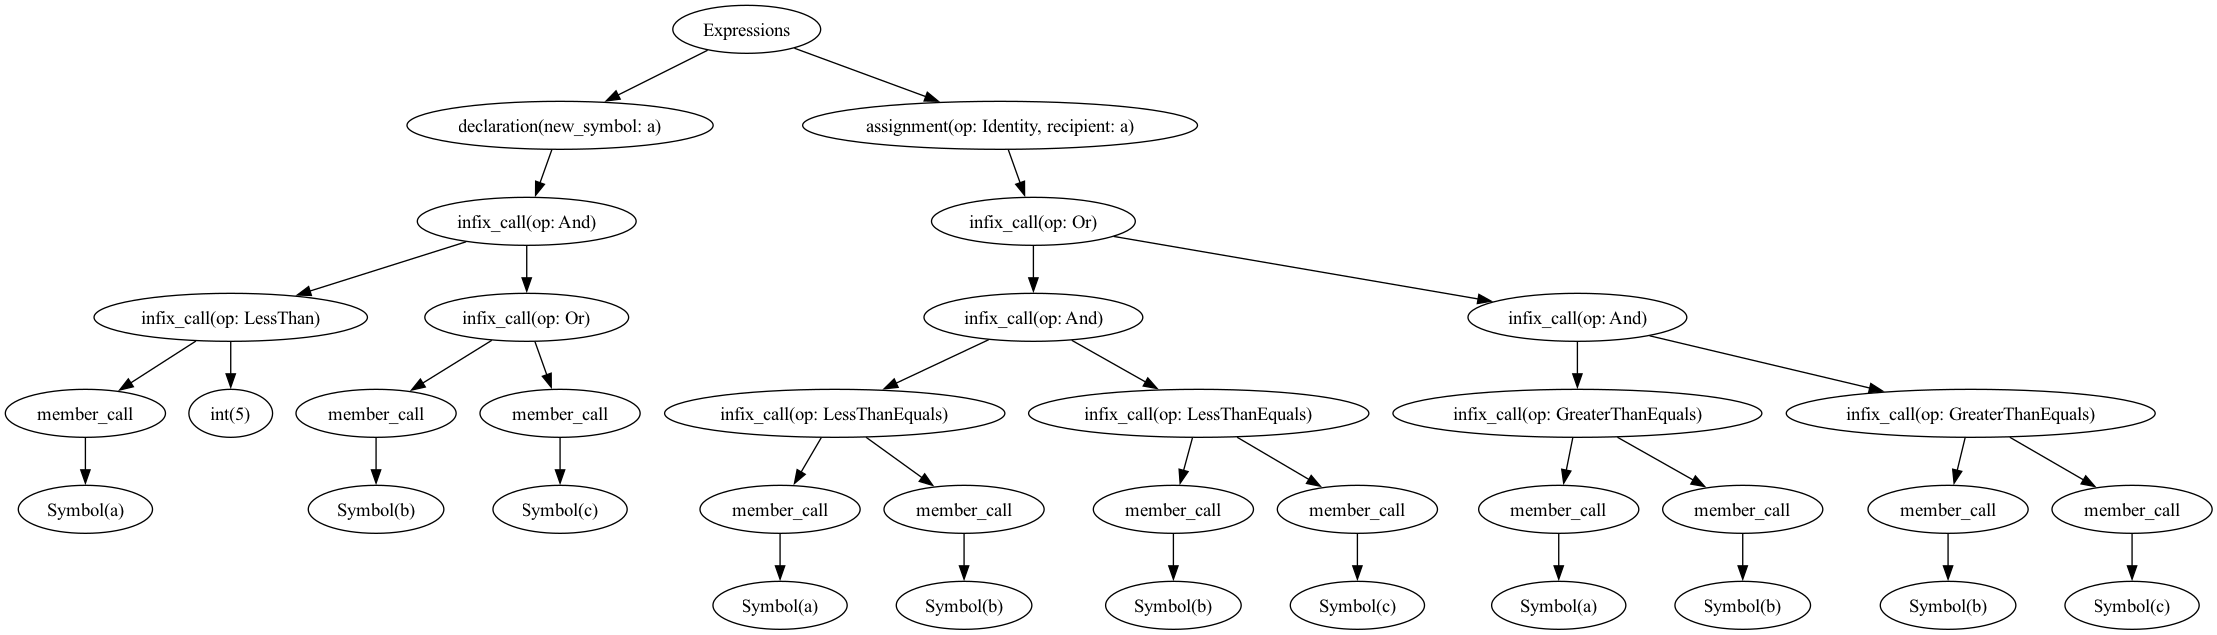
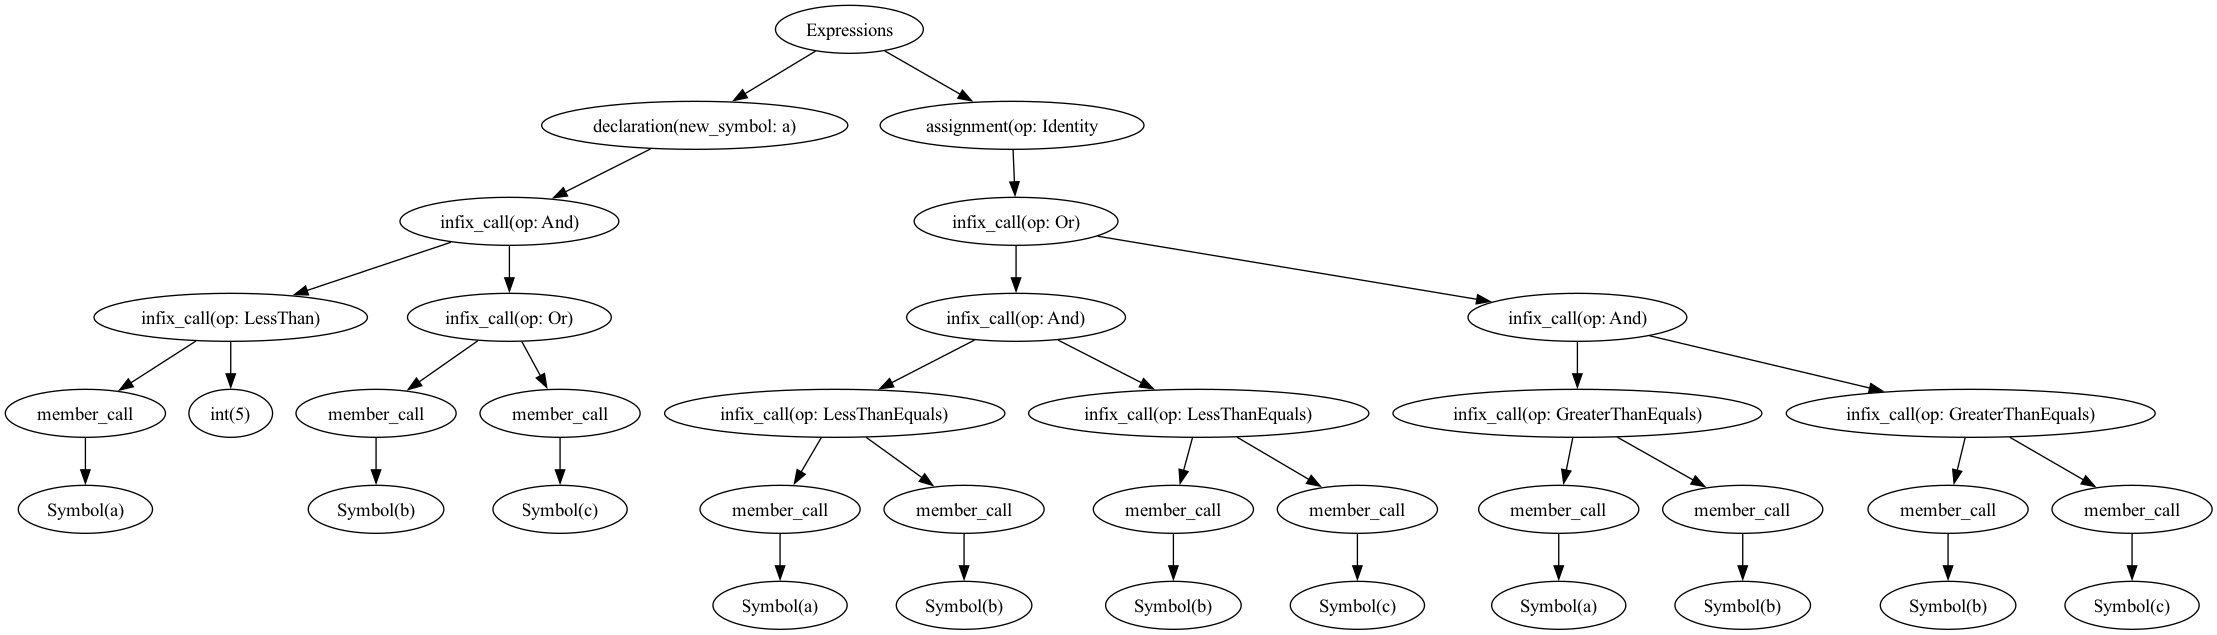
added functional ecs stop test

diff --git a/compiler_proj/crates/parser/src/stages/interpreter.rs b/compiler_proj/crates/parser/src/stages/interpreter.rs
@@ -402,7 +402,14 @@ impl Interpreter {
         world: &World,
     ) -> Result<IsReturn, ErrorWithRange> {
         // NOTE: Cannot be return, hence safe to unwrap
-        let cond1 = self.eval_node(cond, world)?.unwrap();
+        let cond1 = self
+            .eval_node(cond, world)?
+            .unwrap()
+            .deref_value()
+            .map_err(|err| ErrorWithRange {
+                err,
+                range: cond.range.clone(),
+            })?;
 
         let InterpreterValue::Bool(cond1) = cond1 else {
             return Err(ErrorWithRange {
@@ -422,7 +429,15 @@ impl Interpreter {
             let mut executed_case = false;
 
             for elif in else_ifs {
-                let cond = self.eval_node(elif.0.as_ref(), world)?.unwrap();
+                let cond = self
+                    .eval_node(elif.0.as_ref(), world)?
+                    .unwrap()
+                    .deref_value()
+                    .map_err(|err| ErrorWithRange {
+                        err,
+                        range: cond.range.clone(),
+                    })?;
+
                 let InterpreterValue::Bool(cond) = cond else {
                     return Err(ErrorWithRange {
                         err: Error::OperationUnsupported {
@@ -460,12 +475,26 @@ impl Interpreter {
         world: &World,
     ) -> Result<IsReturn, ErrorWithRange> {
         loop {
-            let cond1 = self.eval_node(cond, world)?.unwrap();
+            let cond1 = self
+                .eval_node(cond, world)?
+                .unwrap()
+                .deref_value()
+                .map_err(|err| ErrorWithRange {
+                    err,
+                    range: cond.range.clone(),
+                })?;
 
-            if !cond1.as_bool().map_err(|e| ErrorWithRange {
-                err: e,
-                range: cond.range.clone(),
-            })? {
+            let InterpreterValue::Bool(cond) = cond1 else {
+                return Err(ErrorWithRange {
+                    err: Error::OperationUnsupported {
+                        operation: "elseif condition".to_owned(),
+                        type_of: "must be bool".to_owned(),
+                    },
+                    range: cond.range.clone(),
+                });
+            };
+
+            if !cond {
                 break;
             }
 
@@ -509,12 +538,26 @@ impl Interpreter {
 
             loop {
                 if let Some(cond) = cond.as_ref() {
-                    let cond1 = self.eval_node(cond.as_ref(), world)?.unwrap();
+                    let cond1 = self
+                        .eval_node(cond, world)?
+                        .unwrap()
+                        .deref_value()
+                        .map_err(|err| ErrorWithRange {
+                            err,
+                            range: cond.range.clone(),
+                        })?;
 
-                    if !cond1.as_bool().map_err(|e| ErrorWithRange {
-                        err: e,
-                        range: cond.range.clone(),
-                    })? {
+                    let InterpreterValue::Bool(cond) = cond1 else {
+                        return Err(ErrorWithRange {
+                            err: Error::OperationUnsupported {
+                                operation: "elseif condition".to_owned(),
+                                type_of: "must be bool".to_owned(),
+                            },
+                            range: cond.range.clone(),
+                        });
+                    };
+
+                    if !cond {
                         break;
                     }
                 }
@@ -1075,7 +1118,7 @@ impl Interpreter {
                 match &fn_type.execution_body {
                     FunctionExecutionStrategy::Interpreted(body) => self.eval_nodes(body, world)?,
                     FunctionExecutionStrategy::Buildin(callback) => {
-                        callback(self.get_current_scope()).map_err(|e| ErrorWithRange {
+                        callback(self.get_current_scope(), world).map_err(|e| ErrorWithRange {
                             err: e,
                             range: 1..2,
                         })?
@@ -1156,7 +1199,7 @@ impl Interpreter {
                 match &fn_type.execution_body {
                     FunctionExecutionStrategy::Interpreted(body) => self.eval_nodes(body, world)?,
                     FunctionExecutionStrategy::Buildin(callback) => {
-                        callback(self.get_current_scope()).map_err(|e| ErrorWithRange {
+                        callback(self.get_current_scope(), world).map_err(|e| ErrorWithRange {
                             err: e,
                             range: 1..2,
                         })?

diff --git a/compiler_proj/crates/ecs/src/world.rs b/compiler_proj/crates/ecs/src/world.rs
@@ -8,6 +8,7 @@ pub struct World {
     pub(crate) entites: Rc<RefCell<StandardArena<Entity>>>,
     pub(crate) components: Rc<RefCell<HashSet<String>>>,
     pub(crate) systems: Rc<RefCell<Vec<*const dyn System>>>,
+    pub(crate) is_running: Rc<RefCell<bool>>,
 }
 
 impl World {
@@ -58,13 +59,19 @@ impl World {
     }
 
     pub fn add_system<Marker: 'static, I: IntoSystem<Marker>>(&self, into_system: I) {
-        self.systems.borrow_mut().push(Box::into_raw(into_system.into_system()));
+        self.systems
+            .borrow_mut()
+            .push(Box::into_raw(into_system.into_system()));
     }
 
-    pub fn run(&mut self) {
+    pub fn run(&self) {
         unsafe {
             let systems = self.systems.clone();
+            *self.is_running.borrow_mut() = true;
             loop {
+                if !*self.is_running.borrow() {
+                    break;
+                }
                 // SAFETY: This is safe, as long as no further system manipulation can take place
                 for system in systems.borrow().iter() {
                     let sys = *system as *mut dyn System;
@@ -72,6 +79,10 @@ impl World {
                 }
             }
         }
+    }
+
+    pub fn stop(&self) {
+        *self.is_running.borrow_mut() = false;
     }
 }
 
@@ -81,6 +92,7 @@ impl Default for World {
             entites: Rc::new(RefCell::new(StandardArena::new())),
             components: Rc::new(RefCell::new(HashSet::new())),
             systems: Rc::new(RefCell::new(Vec::new())),
+            is_running: Rc::new(RefCell::new(false)),
         }
     }
 }

diff --git a/compiler_proj/crates/parser/src/stages/buildin.rs b/compiler_proj/crates/parser/src/stages/buildin.rs
@@ -1,21 +1,28 @@
 use std::{cell::RefCell, rc::Rc};
 
+use ecs::World;
+
 use crate::{
     BuildinCallback, Error, FunctionExecutionStrategy, FunctionType, InterpreterValue, IsReturn,
     Scope, ScopeLike, Symbol, TypeSymbol, TypeSymbolType,
 };
 
-pub fn println(scope: Rc<RefCell<Scope>>) -> Result<IsReturn, Error> {
+pub fn println(scope: Rc<RefCell<Scope>>, _world: &World) -> Result<IsReturn, Error> {
     let scope = scope.borrow();
     let val = scope.resolve_value(&"val".to_string())?;
     println!("{val}");
     Ok(IsReturn::Return(InterpreterValue::Empty))
 }
 
-pub fn assert(scope: Rc<RefCell<Scope>>) -> Result<IsReturn, Error> {
+pub fn assert(scope: Rc<RefCell<Scope>>, _world: &World) -> Result<IsReturn, Error> {
     let scope = scope.borrow();
     let attr = scope.resolve_value(&"attr".to_string())?;
     assert!(attr.as_bool()?);
+    Ok(IsReturn::Return(InterpreterValue::Empty))
+}
+
+pub fn stop(_scope: Rc<RefCell<Scope>>, world: &World) -> Result<IsReturn, Error> {
+    world.stop();
     Ok(IsReturn::Return(InterpreterValue::Empty))
 }
 
@@ -59,6 +66,14 @@ pub fn register_buildin(scope: &mut Scope) -> Result<(), Error> {
         return_type: None,
     };
     assert_descriptor.add_to_scope(scope)?;
+
+    let stop_descriptor = BuildinFunctionDescription {
+        name: "stop".to_string(),
+        callback: stop,
+        params: vec![],
+        return_type: None,
+    };
+    stop_descriptor.add_to_scope(scope)?;
 
     Ok(())
 }

diff --git a/compiler_proj/crates/parser/src/stages/interpreter_test.rs b/compiler_proj/crates/parser/src/stages/interpreter_test.rs
@@ -227,6 +227,10 @@ mod tests {
                     comp := entt[0];
                     comp.x += 1;
                     println(comp.x);
+
+                    if (comp.x > 100) {
+                        stop();
+                    }
                 }
             }
 
@@ -278,6 +282,10 @@ mod tests {
                 for (entt in positions) {
                     entt[0].x += 1;
                     println(entt[0].x);
+
+                    if (entt[0].x > 100) {
+                        stop();
+                    }
                 }
             }
 

diff --git a/compiler_proj/crates/parser/src/types/function_type.rs b/compiler_proj/crates/parser/src/types/function_type.rs
@@ -1,10 +1,11 @@
 use std::{cell::RefCell, fmt::Display, iter::zip, rc::Rc};
 
 use derivative::Derivative;
+use ecs::World;
 
 use crate::{AstNode, Error, IsReturn, Scope, Symbol, TypeSymbol};
 
-pub type BuildinCallback = fn(scope: Rc<RefCell<Scope>>) -> Result<IsReturn, Error>;
+pub type BuildinCallback = fn(scope: Rc<RefCell<Scope>>, world: &World) -> Result<IsReturn, Error>;
 
 #[derive(Debug, Clone)]
 pub enum FunctionExecutionStrategy {
